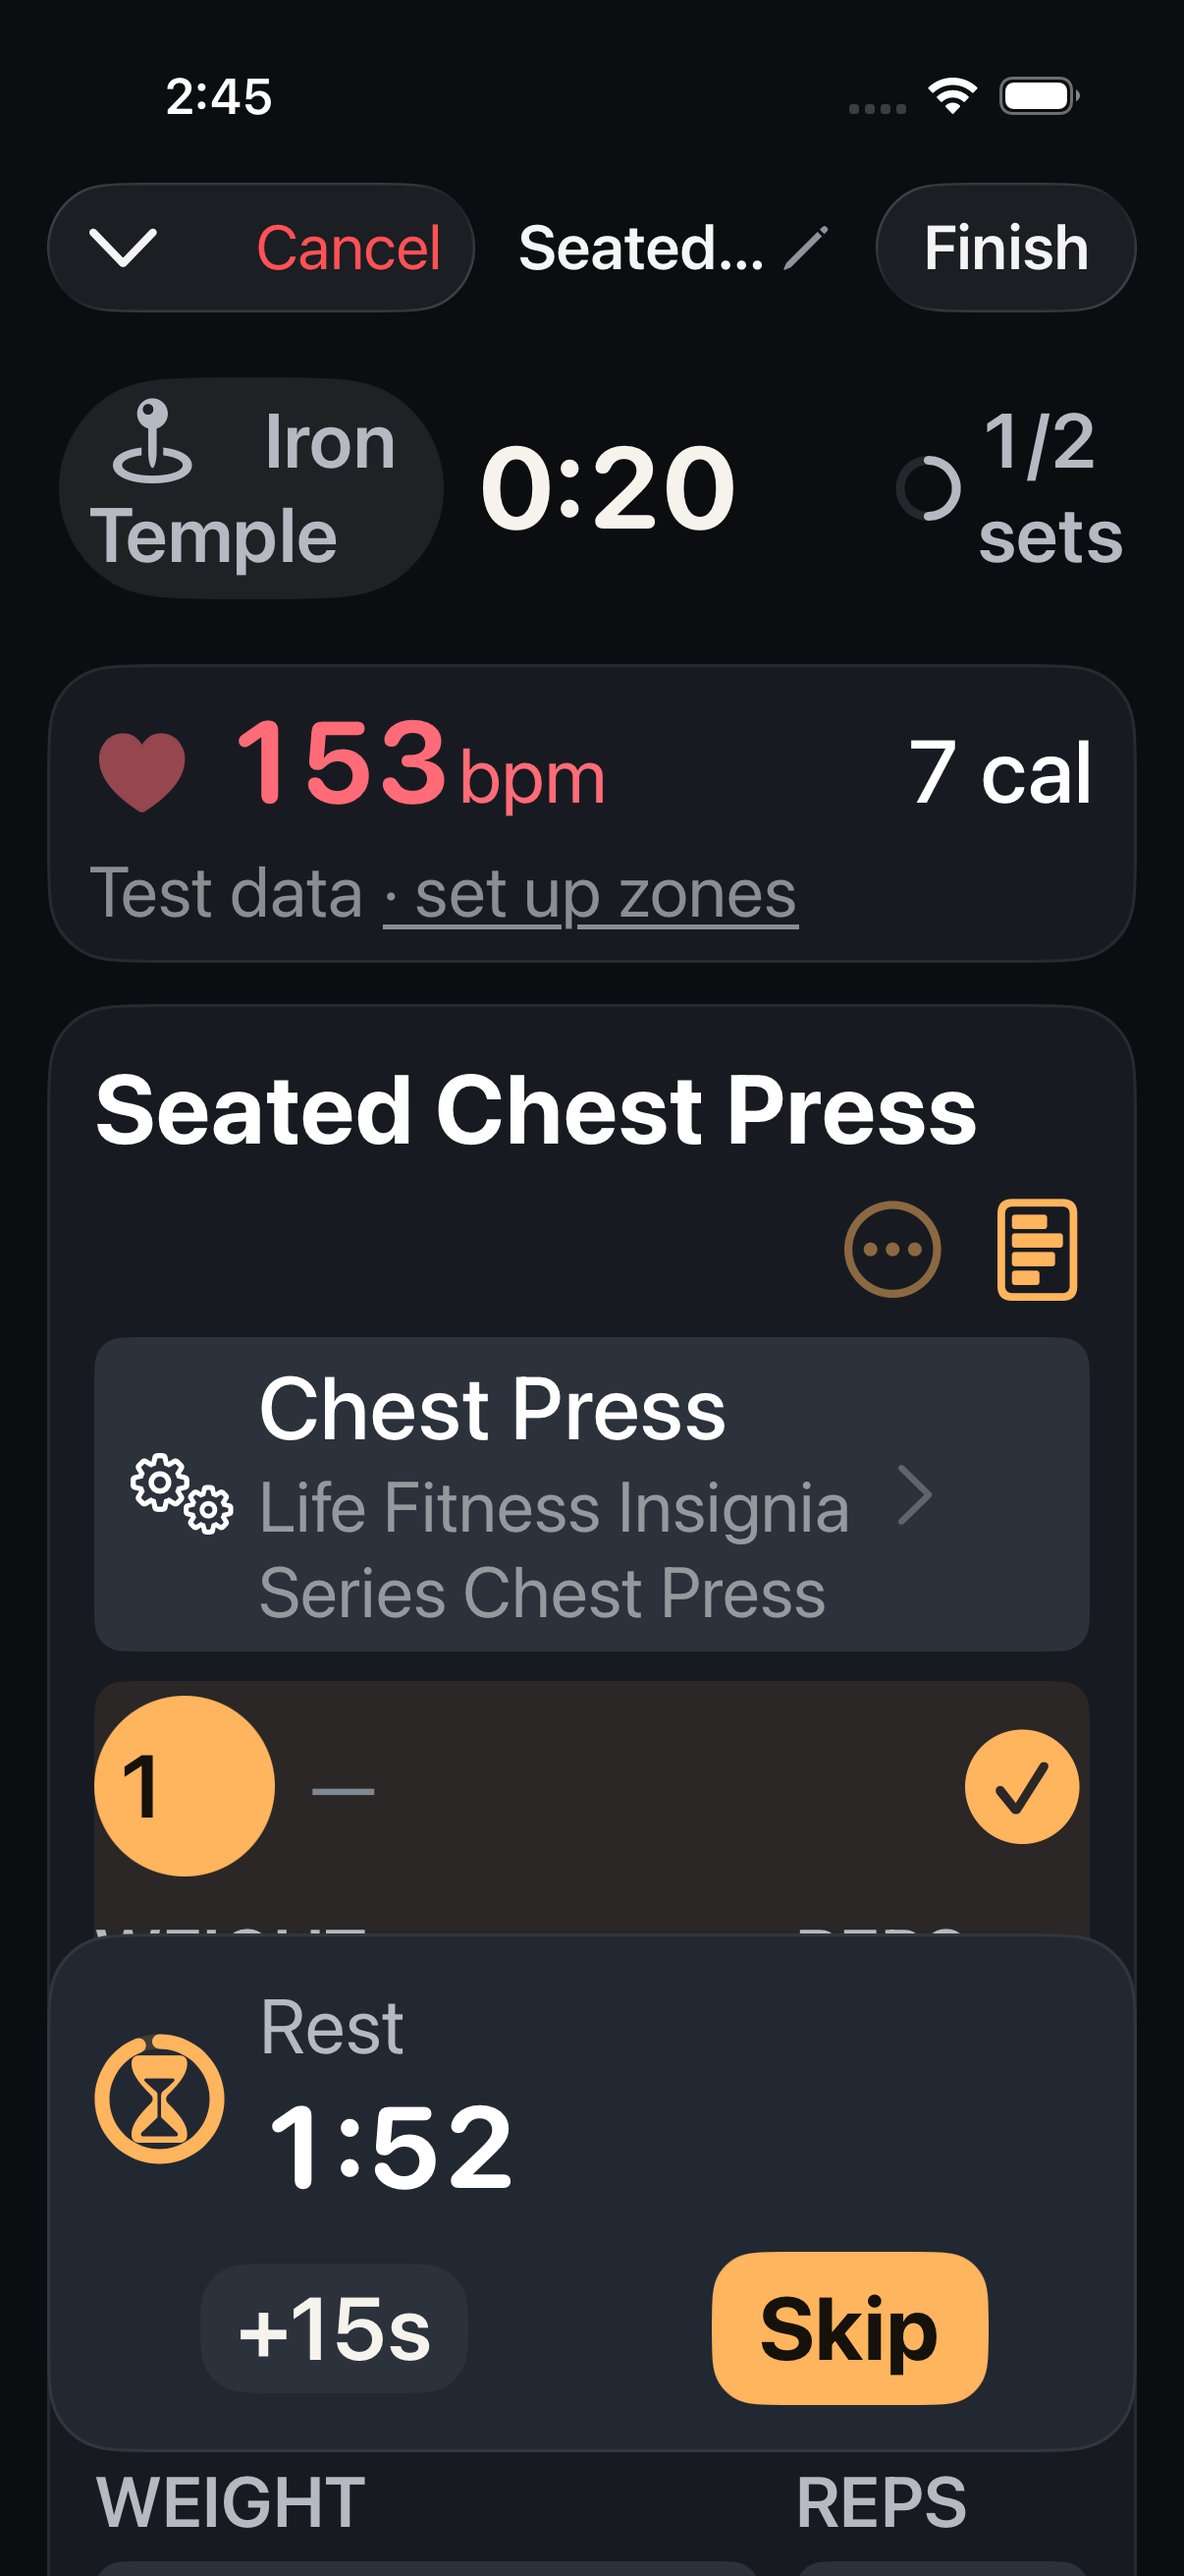
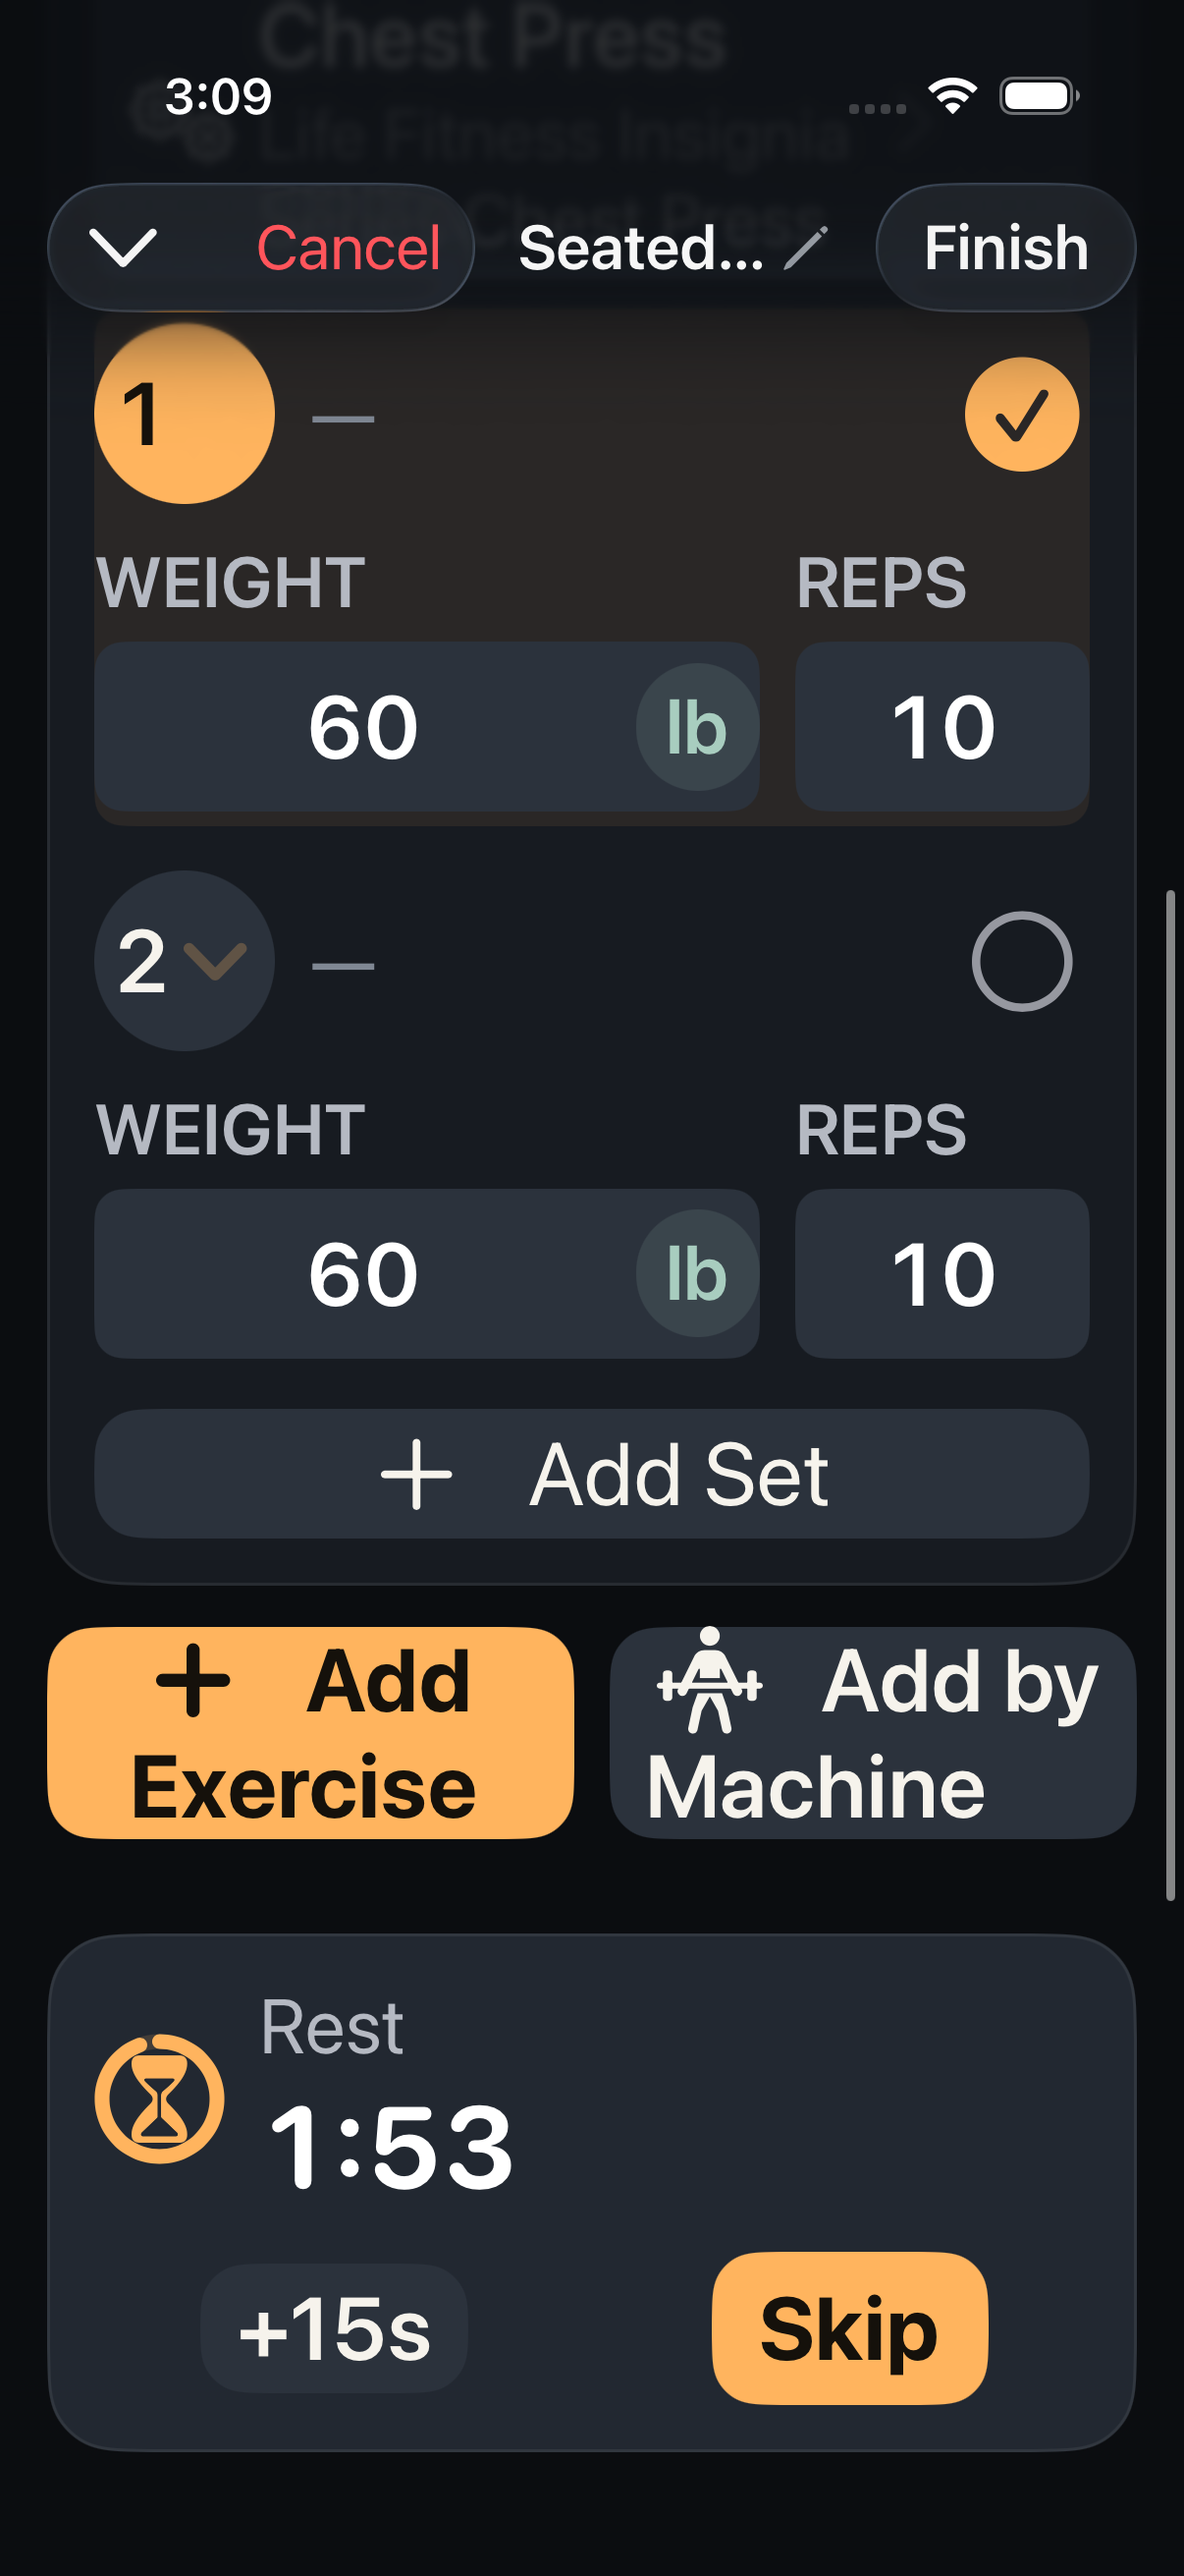
UI redesign 16 (codex-review-16): the clock's VoiceOver label speaks the seconds; the AXL capture records the rows and the footer above the rest bar; the hierarchy exception named
Claude-Session: https://claude.ai/code/session_017NcHt6gES8nUD5LYcK9j4B

diff --git a/WorkoutTrackerUITests/RedesignScreenshotUITests.swift b/WorkoutTrackerUITests/RedesignScreenshotUITests.swift
@@ -81,11 +81,17 @@ final class RedesignScreenshotUITests: XCTestCase {
         app.swipeDown()
         app.swipeDown()
         shoot("redesign-02-active-workout-axl")
-        // The entry card is below the fold at this size: scroll it into view.
-        let title = anyElement("entryTitle.\(exerciseName)")
-        for _ in 0..<4 where !(title.exists && title.isHittable) { app.swipeUp() }
-        XCTAssertTrue(title.exists, "the entry card reachable at AccessibilityL")
+        // The rest of the card and the footer (codex-review-16): scroll until
+        // Add Exercise sits above the pinned rest bar, shooting the set rows on
+        // the way.
+        app.swipeUp()
         shoot("redesign-02-active-workout-axl-2")
+        let add = app.buttons["addExercise"]
+        let restLabel = app.staticTexts["Rest"]
+        for _ in 0..<6 where !(add.exists && add.isHittable && add.frame.maxY < restLabel.frame.minY) { app.swipeUp() }
+        XCTAssertTrue(add.exists && add.isHittable, "Add Exercise reachable at AccessibilityL")
+        XCTAssertLessThan(add.frame.maxY, restLabel.frame.minY, "Add Exercise clear of the pinned rest bar")
+        shoot("redesign-02-active-workout-axl-3")
     }
 
     /// The receipt at the largest non-accessibility-menu text size the plan

diff --git a/WorkoutTracker/Domain/SharedEnums.swift b/WorkoutTracker/Domain/SharedEnums.swift
@@ -144,6 +144,18 @@ enum Format {
 
     /// A running clock: "12:34" under an hour, "1:02:03" from an hour on
     /// (ticket 16 — the active workout's elapsed time shows seconds).
+    /// The same clock for VoiceOver: "12 minutes 34 seconds", "1 hour 2 minutes
+    /// 3 seconds" (codex-review-16: the label must carry the seconds too).
+    static func spokenElapsed(seconds: Int) -> String {
+        let s = max(0, seconds)
+        let h = s / 3600, m = (s % 3600) / 60, sec = s % 60
+        var parts: [String] = []
+        if h > 0 { parts.append("\(h) hour\(h == 1 ? "" : "s")") }
+        if h > 0 || m > 0 { parts.append("\(m) minute\(m == 1 ? "" : "s")") }
+        parts.append("\(sec) second\(sec == 1 ? "" : "s")")
+        return parts.joined(separator: " ")
+    }
+
     static func elapsed(seconds: Int) -> String {
         let s = max(0, seconds)
         return s < 3600

diff --git a/WorkoutTrackerTests/FormatElapsedTests.swift b/WorkoutTrackerTests/FormatElapsedTests.swift
@@ -17,5 +17,13 @@ struct FormatElapsedTests {
 
     @Test func negativeIsZero() {
         #expect(Format.elapsed(seconds: -5) == "0:00")
+        #expect(Format.spokenElapsed(seconds: -5) == "0 seconds")
+    }
+
+    @Test func spokenFormCarriesTheSeconds() {
+        #expect(Format.spokenElapsed(seconds: 59) == "59 seconds")
+        #expect(Format.spokenElapsed(seconds: 61) == "1 minute 1 second")
+        #expect(Format.spokenElapsed(seconds: 754) == "12 minutes 34 seconds")
+        #expect(Format.spokenElapsed(seconds: 3723) == "1 hour 2 minutes 3 seconds")
     }
 }

diff --git a/WorkoutTracker/Features/ActiveWorkout/ActiveWorkoutView.swift b/WorkoutTracker/Features/ActiveWorkout/ActiveWorkoutView.swift
@@ -346,7 +346,7 @@ struct ActiveWorkoutView: View {
                     .font(Theme.stat)
                     .monospacedDigit()
                     .foregroundStyle(Theme.text)
-                    .accessibilityLabel("Elapsed \(elapsedMinutes(at: timeline.date)) minutes")
+                    .accessibilityLabel("Elapsed \(Format.spokenElapsed(seconds: elapsedSeconds(at: timeline.date)))")
             }
             Spacer(minLength: 0)
             HStack(spacing: 6) {

diff --git a/work-record/ui-redesign/codex-review-16.md b/work-record/ui-redesign/codex-review-16.md
@@ -1,0 +1,19 @@
+# Ticket 16 — Round 1 (T6)
+
+Reviewed `main..HEAD` (`7a983fd..42627d5`) on `ui-redesign-16-active-workout` against `.claude/skills/ios-design/REVIEW.md` and the ticket's final Round 4 decision. Three P3 findings; not clear yet. The earlier directions do not override the user's decision to keep the current screen.
+
+- **P3 — Expose seconds to VoiceOver.** `WorkoutTracker/Features/ActiveWorkout/ActiveWorkoutView.swift:349`: the new accessibility label replaces the seconds-bearing text with whole minutes: `0:59` becomes “Elapsed 0 minutes,” and `1:02:03` becomes “Elapsed 62 minutes.” Seconds were explicitly requested; they should also be available when a VoiceOver user focuses the clock. Derive the spoken hours/minutes/seconds from the same clamped elapsed value. This does not require automatic announcements every second. This is an accessibility parity defect, separate from item 11's test-query compatibility.
+
+- **P3 — Capture the lower card and footer at AXL (items 9/12).** `WorkoutTrackerUITests/RedesignScreenshotUITests.swift:86`: after the new scroll-to-top swipes, the entry title is already hittable, so the loop does not scroll. `02-active-workout-axl.png` and `02-active-workout-axl-2.png` show essentially the same viewport, apart from live readings. Neither documents the complete set inputs, waiting second set, Add Set, or Add Exercise/Add by Machine. The ticket's description of `-axl-2` as “the card” at `work-record/ui-redesign/issues/16-active-workout-second-pass.md:122` overstates the coverage. Target lower controls, verify their position above the pinned rest bar, and take enough captures to record the whole card and footer. This is missing evidence, not proof those controls are broken.
+
+- **P3 — Name the accepted hierarchy exception (items 1/12).** `work-record/ui-redesign/issues/16-active-workout-second-pass.md:104`: “the header no longer competes … at all” and “whatever it was in the first pass” do not identify the remaining bold element. **Add Exercise** is the large amber filled command (`ActiveWorkoutView.swift:125`); while resting, **Skip** is another amber filled command (`RestTimerBar.swift:43`). The completed set is amber state and explicitly excluded from item 1. The elapsed clock also remains a prominent `stat` figure, sharing the countdown's type treatment. Lines 100–101 honestly preserve the user's preference, but the restated hierarchy is incomplete: explicitly record Add Exercise and Skip as accepted competitors, and say the header's prominence is reduced. Preserve the chosen UI; this finding asks for an honest exception record, not another redesign.
+
+The requested header is implemented: gym chip, seconds clock in `stat`, trailing neutral 22 pt ring and `N/M sets` caption; the Large Title hero and amber count chip are removed. The inspected AXL header keeps “Iron Temple,” the clock and sets caption whole. The rest controls sit together below the timer with whole “+15s” and “Skip” labels, fixing the observed mid-word wrap. Default and AXL use the same gym/exercise, one completed set, one pending set, live heart-rate fixture and running rest. The lower-content evidence gap above prevents clearing item 9 for the whole screen. The default finish capture remains coherent; finish source is unchanged.
+
+Clock cost: `ActiveWorkoutView.swift:344` requests 60 times the previous update frequency, but the timeline closure contains only formatted clock text and its accessibility label; set traversal/counting at lines 337–338 is outside it. Apple's [TimelineView documentation](https://developer.apple.com/documentation/swiftui/timelineview) describes scheduled updates to contained content and gives a one-second timer example. Static inspection shows no new per-tick persistence, network work or whole-workout state mutation. This is a reasonable cost for requested seconds, not a demonstrated performance defect; no profiling was performed.
+
+Clock skew is handled at display time: `elapsedSeconds` at `ActiveWorkoutView.swift:369` can return a negative integer for a future `startedAt`, but `Format.elapsed` at `WorkoutTracker/Domain/SharedEnums.swift:148` clamps it to zero. The spoken minutes helper separately clamps at `ActiveWorkoutView.swift:375`. Thus neither displays a negative elapsed duration. The three formatter tests cover zero, under-hour values, the hour boundary, hours/minutes/seconds, and negative input. Judgment: elapsed `h:mm:ss` from an hour and rest `m:ss` are consistent enough for their different jobs; the explicit hour format matches the recorded decision, and both use `m:ss` below an hour.
+
+Item 11 passes for test-read strings and identifiers. Diff inspection and searches across `WorkoutTrackerUITests` found no query for the removed header “N min” or bare completed-count text. No accessibility identifier changed; the sets accessibility label, gym fallback, rest labels and queried action labels remain unchanged. Visible copy did change to the explicitly authorized seconds clock and `N/M sets` caption, so “no string changed” would be too broad. No additional finding in the changed scope for items 2–8 or 10; the neutral ring keeps the existing Reduce Motion-gated animation.
+
+Validation was source, query and capture inspection only. The ticket reports `FormatElapsedTests` 3/3; that result was not independently rerun, and the named screenshot gates lack explicit pass counts in the ticket. No `xcodebuild` or `simctl` ran. No source files were modified.

diff --git a/work-record/ui-redesign/issues/16-active-workout-second-pass.md b/work-record/ui-redesign/issues/16-active-workout-second-pass.md
@@ -101,8 +101,13 @@ elapsed hero and the amber "N/M" chip. Everything else (the amber Add Exercise, 
 cards, the ring's amber elsewhere) is untouched by the user's choice. A one-element restyle of
 the header — built directly and shown as real captures (skill step 3's exception).
 
-Step 1, restated for what changed: the header no longer competes for the eye at all; the bold
-element on this screen stays whatever it was in the first pass (the user's call, recorded).
+Step 1, restated for what changed — and the accepted exception (codex-review-16): the header's
+prominence is reduced (no hero, no amber chip; the clock is a `stat` figure, the ring neutral).
+What is bold on this screen is unchanged from the first pass and is NOT one thing: **Add
+Exercise** is an amber filled command while logging, and **Skip** a second amber filled command
+while resting; the completed set's amber is state. The user chose to keep both ("lets just keep
+the current design"); this ticket records that as a deliberate exception to the one-dominant-
+treatment rule, not as compliance.
 Tells: the accent on too many things — **reduced** (one amber chip gone); a figure without a
 glanceable job — the elapsed hero — **gone**; survives only the default size — the AXL capture.
 
@@ -121,3 +126,19 @@ Branch `ui-redesign-16-active-workout`; `FormatElapsedTests` (3); captures
   (the header at AXL: the chip wraps to two words, the clock whole, "1/2 sets" on two lines
   beside its ring; the stacked rest bar), `-axl-2` (the card), `03-finish-summary`. The user on
   the default capture: "looks good."
+
+## Codex review 16 — response (2026-09-17)
+
+`codex-review-16.md`: three P3s, no source defect; the header as requested, the rest wrap fixed,
+item 11 pass, the clock's cost and skew handling fine, the hour format accepted.
+- **VoiceOver heard whole minutes**: `Format.spokenElapsed` — "12 minutes 34 seconds",
+  "1 hour 2 minutes 3 seconds" — is the clock's accessibility label (`FormatElapsedTests` 4/4).
+- **The AXL record stopped at the header**: `test02_activeWorkoutLargeText` now shoots the top,
+  the set rows (`-axl-2`) and the footer above the pinned rest bar (`-axl-3`, asserted by frame).
+- **The hierarchy exception**: named above — Add Exercise (logging) and Skip (resting) are amber
+  filled commands the user chose to keep; the completed set is state.
+
+Gates on the branch: `FormatElapsedTests`, `CoreLoopUITests` 9, `HeartRateUITests` 5,
+`BarbellUITests` 2, `WorkoutNameUITests` 2, `ExercisePresetUITests` 2, `DumbbellCounterpartUITests`,
+`CodexScreenshotUITests` 3, three captures — **27 UI tests, 0 failures**; after the round-1 fixes,
+`FormatElapsedTests` 4/4 and `test02_activeWorkoutLargeText` 1/1.
